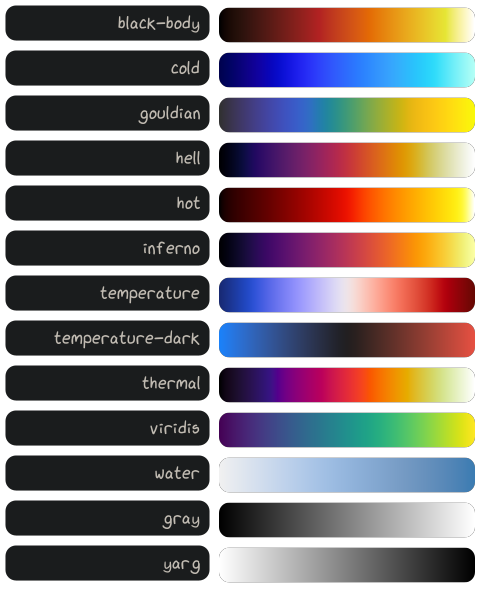
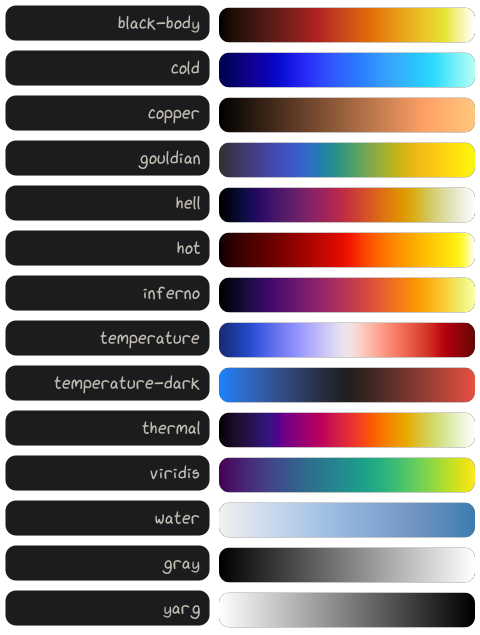
add copper map for false coloring

diff --git a/src/helpers/colormaps_helpers.cpp b/src/helpers/colormaps_helpers.cpp
@@ -261,6 +261,75 @@ constexpr RGBColor kColorMapColorBlind[] = {
 constexpr std::size_t kBinsColorBlind = sizeof(kColorMapColorBlind) / sizeof(kColorMapColorBlind[0]);
 
 
+constexpr RGBColor kColorMapCopper[] = {
+  RGBColor(  0,   0,   0), RGBColor(  1,   0,   0), RGBColor(  2,   1,   0), RGBColor(  3,   2,   1),
+  RGBColor(  4,   3,   1), RGBColor(  6,   3,   2), RGBColor(  7,   4,   2), RGBColor(  8,   5,   3),
+  RGBColor(  9,   6,   3), RGBColor( 11,   7,   4), RGBColor( 12,   7,   4), RGBColor( 13,   8,   5),
+  RGBColor( 14,   9,   5), RGBColor( 16,  10,   6), RGBColor( 17,  10,   6), RGBColor( 18,  11,   7),
+  RGBColor( 19,  12,   7), RGBColor( 20,  13,   8), RGBColor( 22,  14,   8), RGBColor( 23,  14,   9),
+  RGBColor( 24,  15,   9), RGBColor( 25,  16,  10), RGBColor( 27,  17,  10), RGBColor( 28,  17,  11),
+  RGBColor( 29,  18,  11), RGBColor( 30,  19,  12), RGBColor( 32,  20,  12), RGBColor( 33,  21,  13),
+  RGBColor( 34,  21,  13), RGBColor( 35,  22,  14), RGBColor( 37,  23,  14), RGBColor( 38,  24,  15),
+  RGBColor( 39,  24,  15), RGBColor( 40,  25,  16), RGBColor( 41,  26,  16), RGBColor( 43,  27,  17),
+  RGBColor( 44,  28,  17), RGBColor( 45,  28,  18), RGBColor( 46,  29,  18), RGBColor( 48,  30,  19),
+  RGBColor( 49,  31,  19), RGBColor( 50,  32,  20), RGBColor( 51,  32,  20), RGBColor( 53,  33,  21),
+  RGBColor( 54,  34,  21), RGBColor( 55,  35,  22), RGBColor( 56,  35,  22), RGBColor( 58,  36,  23),
+  RGBColor( 59,  37,  23), RGBColor( 60,  38,  24), RGBColor( 61,  39,  24), RGBColor( 62,  39,  25),
+  RGBColor( 64,  40,  25), RGBColor( 65,  41,  26), RGBColor( 66,  42,  26), RGBColor( 67,  42,  27),
+  RGBColor( 69,  43,  27), RGBColor( 70,  44,  28), RGBColor( 71,  45,  28), RGBColor( 72,  46,  29),
+  RGBColor( 74,  46,  29), RGBColor( 75,  47,  30), RGBColor( 76,  48,  30), RGBColor( 77,  49,  31),
+  RGBColor( 79,  49,  31), RGBColor( 80,  50,  32), RGBColor( 81,  51,  32), RGBColor( 82,  52,  33),
+  RGBColor( 83,  53,  33), RGBColor( 85,  53,  34), RGBColor( 86,  54,  34), RGBColor( 87,  55,  35),
+  RGBColor( 88,  56,  35), RGBColor( 90,  57,  36), RGBColor( 91,  57,  36), RGBColor( 92,  58,  37),
+  RGBColor( 93,  59,  37), RGBColor( 95,  60,  38), RGBColor( 96,  60,  38), RGBColor( 97,  61,  39),
+  RGBColor( 98,  62,  39), RGBColor(100,  63,  40), RGBColor(101,  64,  40), RGBColor(102,  64,  41),
+  RGBColor(103,  65,  41), RGBColor(104,  66,  42), RGBColor(106,  67,  42), RGBColor(107,  67,  43),
+  RGBColor(108,  68,  43), RGBColor(109,  69,  44), RGBColor(111,  70,  44), RGBColor(112,  71,  45),
+  RGBColor(113,  71,  45), RGBColor(114,  72,  46), RGBColor(116,  73,  46), RGBColor(117,  74,  47),
+  RGBColor(118,  74,  47), RGBColor(119,  75,  48), RGBColor(121,  76,  48), RGBColor(122,  77,  49),
+  RGBColor(123,  78,  49), RGBColor(124,  78,  50), RGBColor(125,  79,  50), RGBColor(127,  80,  51),
+  RGBColor(128,  81,  51), RGBColor(129,  82,  52), RGBColor(130,  82,  52), RGBColor(132,  83,  53),
+  RGBColor(133,  84,  53), RGBColor(134,  85,  54), RGBColor(135,  85,  54), RGBColor(137,  86,  55),
+  RGBColor(138,  87,  55), RGBColor(139,  88,  56), RGBColor(140,  89,  56), RGBColor(142,  89,  57),
+  RGBColor(143,  90,  57), RGBColor(144,  91,  58), RGBColor(145,  92,  58), RGBColor(146,  92,  59),
+  RGBColor(148,  93,  59), RGBColor(149,  94,  60), RGBColor(150,  95,  60), RGBColor(151,  96,  61),
+  RGBColor(153,  96,  61), RGBColor(154,  97,  62), RGBColor(155,  98,  62), RGBColor(156,  99,  63),
+  RGBColor(158,  99,  63), RGBColor(159, 100,  64), RGBColor(160, 101,  64), RGBColor(161, 102,  65),
+  RGBColor(163, 103,  65), RGBColor(164, 103,  66), RGBColor(165, 104,  66), RGBColor(166, 105,  67),
+  RGBColor(167, 106,  67), RGBColor(169, 107,  68), RGBColor(170, 107,  68), RGBColor(171, 108,  69),
+  RGBColor(172, 109,  69), RGBColor(174, 110,  70), RGBColor(175, 110,  70), RGBColor(176, 111,  71),
+  RGBColor(177, 112,  71), RGBColor(179, 113,  72), RGBColor(180, 114,  72), RGBColor(181, 114,  73),
+  RGBColor(182, 115,  73), RGBColor(184, 116,  74), RGBColor(185, 117,  74), RGBColor(186, 117,  75),
+  RGBColor(187, 118,  75), RGBColor(188, 119,  76), RGBColor(190, 120,  76), RGBColor(191, 121,  77),
+  RGBColor(192, 121,  77), RGBColor(193, 122,  78), RGBColor(195, 123,  78), RGBColor(196, 124,  79),
+  RGBColor(197, 124,  79), RGBColor(198, 125,  80), RGBColor(200, 126,  80), RGBColor(201, 127,  81),
+  RGBColor(202, 128,  81), RGBColor(203, 128,  82), RGBColor(205, 129,  82), RGBColor(206, 130,  83),
+  RGBColor(207, 131,  83), RGBColor(208, 132,  84), RGBColor(209, 132,  84), RGBColor(211, 133,  85),
+  RGBColor(212, 134,  85), RGBColor(213, 135,  86), RGBColor(214, 135,  86), RGBColor(216, 136,  87),
+  RGBColor(217, 137,  87), RGBColor(218, 138,  88), RGBColor(219, 139,  88), RGBColor(221, 139,  89),
+  RGBColor(222, 140,  89), RGBColor(223, 141,  90), RGBColor(224, 142,  90), RGBColor(226, 142,  91),
+  RGBColor(227, 143,  91), RGBColor(228, 144,  92), RGBColor(229, 145,  92), RGBColor(230, 146,  93),
+  RGBColor(232, 146,  93), RGBColor(233, 147,  94), RGBColor(234, 148,  94), RGBColor(235, 149,  95),
+  RGBColor(237, 149,  95), RGBColor(238, 150,  96), RGBColor(239, 151,  96), RGBColor(240, 152,  97),
+  RGBColor(242, 153,  97), RGBColor(243, 153,  98), RGBColor(244, 154,  98), RGBColor(245, 155,  99),
+  RGBColor(247, 156,  99), RGBColor(248, 157,  99), RGBColor(249, 157, 100), RGBColor(250, 158, 100),
+  RGBColor(251, 159, 101), RGBColor(253, 160, 101), RGBColor(254, 160, 102), RGBColor(255, 161, 102),
+  RGBColor(255, 162, 103), RGBColor(255, 163, 103), RGBColor(255, 164, 104), RGBColor(255, 164, 104),
+  RGBColor(255, 165, 105), RGBColor(255, 166, 105), RGBColor(255, 167, 106), RGBColor(255, 167, 106),
+  RGBColor(255, 168, 107), RGBColor(255, 169, 107), RGBColor(255, 170, 108), RGBColor(255, 171, 108),
+  RGBColor(255, 171, 109), RGBColor(255, 172, 109), RGBColor(255, 173, 110), RGBColor(255, 174, 110),
+  RGBColor(255, 174, 111), RGBColor(255, 175, 111), RGBColor(255, 176, 112), RGBColor(255, 177, 112),
+  RGBColor(255, 178, 113), RGBColor(255, 178, 113), RGBColor(255, 179, 114), RGBColor(255, 180, 114),
+  RGBColor(255, 181, 115), RGBColor(255, 182, 115), RGBColor(255, 182, 116), RGBColor(255, 183, 116),
+  RGBColor(255, 184, 117), RGBColor(255, 185, 117), RGBColor(255, 185, 118), RGBColor(255, 186, 118),
+  RGBColor(255, 187, 119), RGBColor(255, 188, 119), RGBColor(255, 189, 120), RGBColor(255, 189, 120),
+  RGBColor(255, 190, 121), RGBColor(255, 191, 121), RGBColor(255, 192, 122), RGBColor(255, 192, 122),
+  RGBColor(255, 193, 123), RGBColor(255, 194, 123), RGBColor(255, 195, 124), RGBColor(255, 196, 124),
+  RGBColor(255, 196, 125), RGBColor(255, 197, 125), RGBColor(255, 198, 126), RGBColor(255, 199, 126)
+};
+constexpr std::size_t kBinsCopper = sizeof(kColorMapCopper) / sizeof(kColorMapCopper[0]);
+
+
 constexpr RGBColor kColorMapDisparity[] = {
   RGBColor(  0,   0,   0), RGBColor(  0,   0,   9), RGBColor(  0,   0,  18), RGBColor(  0,   0,  26),
   RGBColor(  0,   0,  35), RGBColor(  0,   0,  44), RGBColor(  0,   0,  53), RGBColor(  0,   0,  61),
@@ -1948,6 +2017,8 @@ std::pair<const RGBColor *, std::size_t> GetColorMap(ColorMap colormap) {
       return std::make_pair(kColorMapCold, kBinsCold);
     case ColorMap::ColorBlind:
       return std::make_pair(kColorMapColorBlind, kBinsColorBlind);
+    case ColorMap::Copper:
+      return std::make_pair(kColorMapCopper, kBinsCopper);
     case ColorMap::Disparity:
       return std::make_pair(kColorMapDisparity, kBinsDisparity);
     case ColorMap::Earth:

diff --git a/src/bindings/bindings_colormaps.cpp b/src/bindings/bindings_colormaps.cpp
@@ -51,6 +51,14 @@ void RegisterColorMapEnum(pybind11::module &m) {
         under the CC-BY 4.0 license.
         )docstr")
       .value(
+        "Copper",
+        ColorMap::Copper, R"docstr(
+        Sequential color map from black to light copper. This color map has
+        kinks in the lightness curve, which can lead to a perceived banding of
+        the data in those value ranges. Based on
+        `matplotlib's <https://matplotlib.org>`__ *copper* map.
+        )docstr")
+      .value(
         "Disparity",
         ColorMap::Disparity, R"docstr(
         High contrast color map for depth & disparity images.
@@ -71,7 +79,7 @@ void RegisterColorMapEnum(pybind11::module &m) {
         *i.e.* light colors are omitted. This color map is adapted from
         `colorcet <https://github.com/holoviz/colorcet>`__ and was created using
         `Glasbey's method <https://strathprints.strath.ac.uk/30312/1/colorpaper_2006.pdf>`.
-        TODO mention usage with updated color::byid, etc.
+        FIXME mention usage with updated color::byid, etc.
         )docstr")
       .value(
         "GlasbeyLight",

diff --git a/src/colormaps.cpp b/src/colormaps.cpp
@@ -27,6 +27,8 @@ std::string ColorMapToString(ColorMap cm) {
       return "cold";
     case ColorMap::ColorBlind:
       return "color-blind";
+    case ColorMap::Copper:
+      return "copper";
     case ColorMap::Disparity:
       return "disparity";
     case ColorMap::Earth:
@@ -105,6 +107,8 @@ ColorMap ColorMapFromString(const std::string &cm) {
     return ColorMap::Cold;
   } else if (lower.compare("colorblind") == 0) {
     return ColorMap::ColorBlind;
+  } else if (lower.compare("copper") == 0) {
+    return ColorMap::Copper;
   } else if (lower.compare("disparity") == 0) {
     return ColorMap::Disparity;
   } else if (lower.compare("earth") == 0) {

diff --git a/examples/rtd-examples-python/rtd_demo_images/cheat_sheets.py b/examples/rtd-examples-python/rtd_demo_images/cheat_sheets.py
@@ -257,9 +257,9 @@ def cheat_sheet_arrowstyle():
 def cheat_sheet_colormaps():
     cmap_categories = {
         'sequential': [
-            'black-body', 'cold', 'gouldian', 'hell', 'hot', 'inferno',
-            'temperature', 'temperature-dark', 'thermal', 'viridis', 'water',
-            'gray', 'yarg'
+            'black-body', 'cold', 'copper', 'gouldian', 'hell', 'hot',
+            'inferno', 'temperature', 'temperature-dark', 'thermal', 'viridis',
+            'water', 'gray', 'yarg'
         ],
         'cyclic': [
             'hsv', 'optical-flow', 'orientation', 'orientation-color-blind'

diff --git a/include/viren2d/colormaps.h b/include/viren2d/colormaps.h
@@ -40,6 +40,11 @@ enum class ColorMap : unsigned char
   /// under the CC-BY 4.0 license.
   ColorBlind,
 
+
+  //TODO
+  Copper,
+
+
   /// High contrast color map for depth & disparity images.
   /// Based on `disparity` for MATLAB
   /// `by Oliver Woodford <https://github.com/ojwoodford/sc>`__,

diff --git a/examples/rtd-examples-python/render_rtd_images.py b/examples/rtd-examples-python/render_rtd_images.py
@@ -123,5 +123,5 @@ def render_rtd_cheatsheets(show_images: bool, save_images: bool):
 
 
 if __name__ == '__main__':
-    # render_rtd_demos(True, False)
+    render_rtd_demos(True, True)
     render_rtd_cheatsheets(True, True)#FIXME

diff --git a/docs/source/tutorial/optical-flow.rst b/docs/source/tutorial/optical-flow.rst
@@ -2,14 +2,16 @@
 Optical Flow
 ------------
 
-.. warning::
-   TODO doc ref to sintel alley2 f#46
-
-
-:func:`~viren2d.colorize_optical_flow`
-:func:`~viren2d.optical_flow_legend`
+Optical flow fields can be visualized via
+:func:`~viren2d.colorize_optical_flow`. There is also an option to illustrate
+the selected color schema via :func:`~viren2d.optical_flow_legend`, to overlay
+the color wheel as in the following example:
 
 .. image:: ../images/optical-flow.png
    :width: 600
    :alt: Exemplary optical flow visualization
    :align: center
+
+..
+   TODO example shows part of sintel alley2 with different color maps
+   TODO add code snippet
